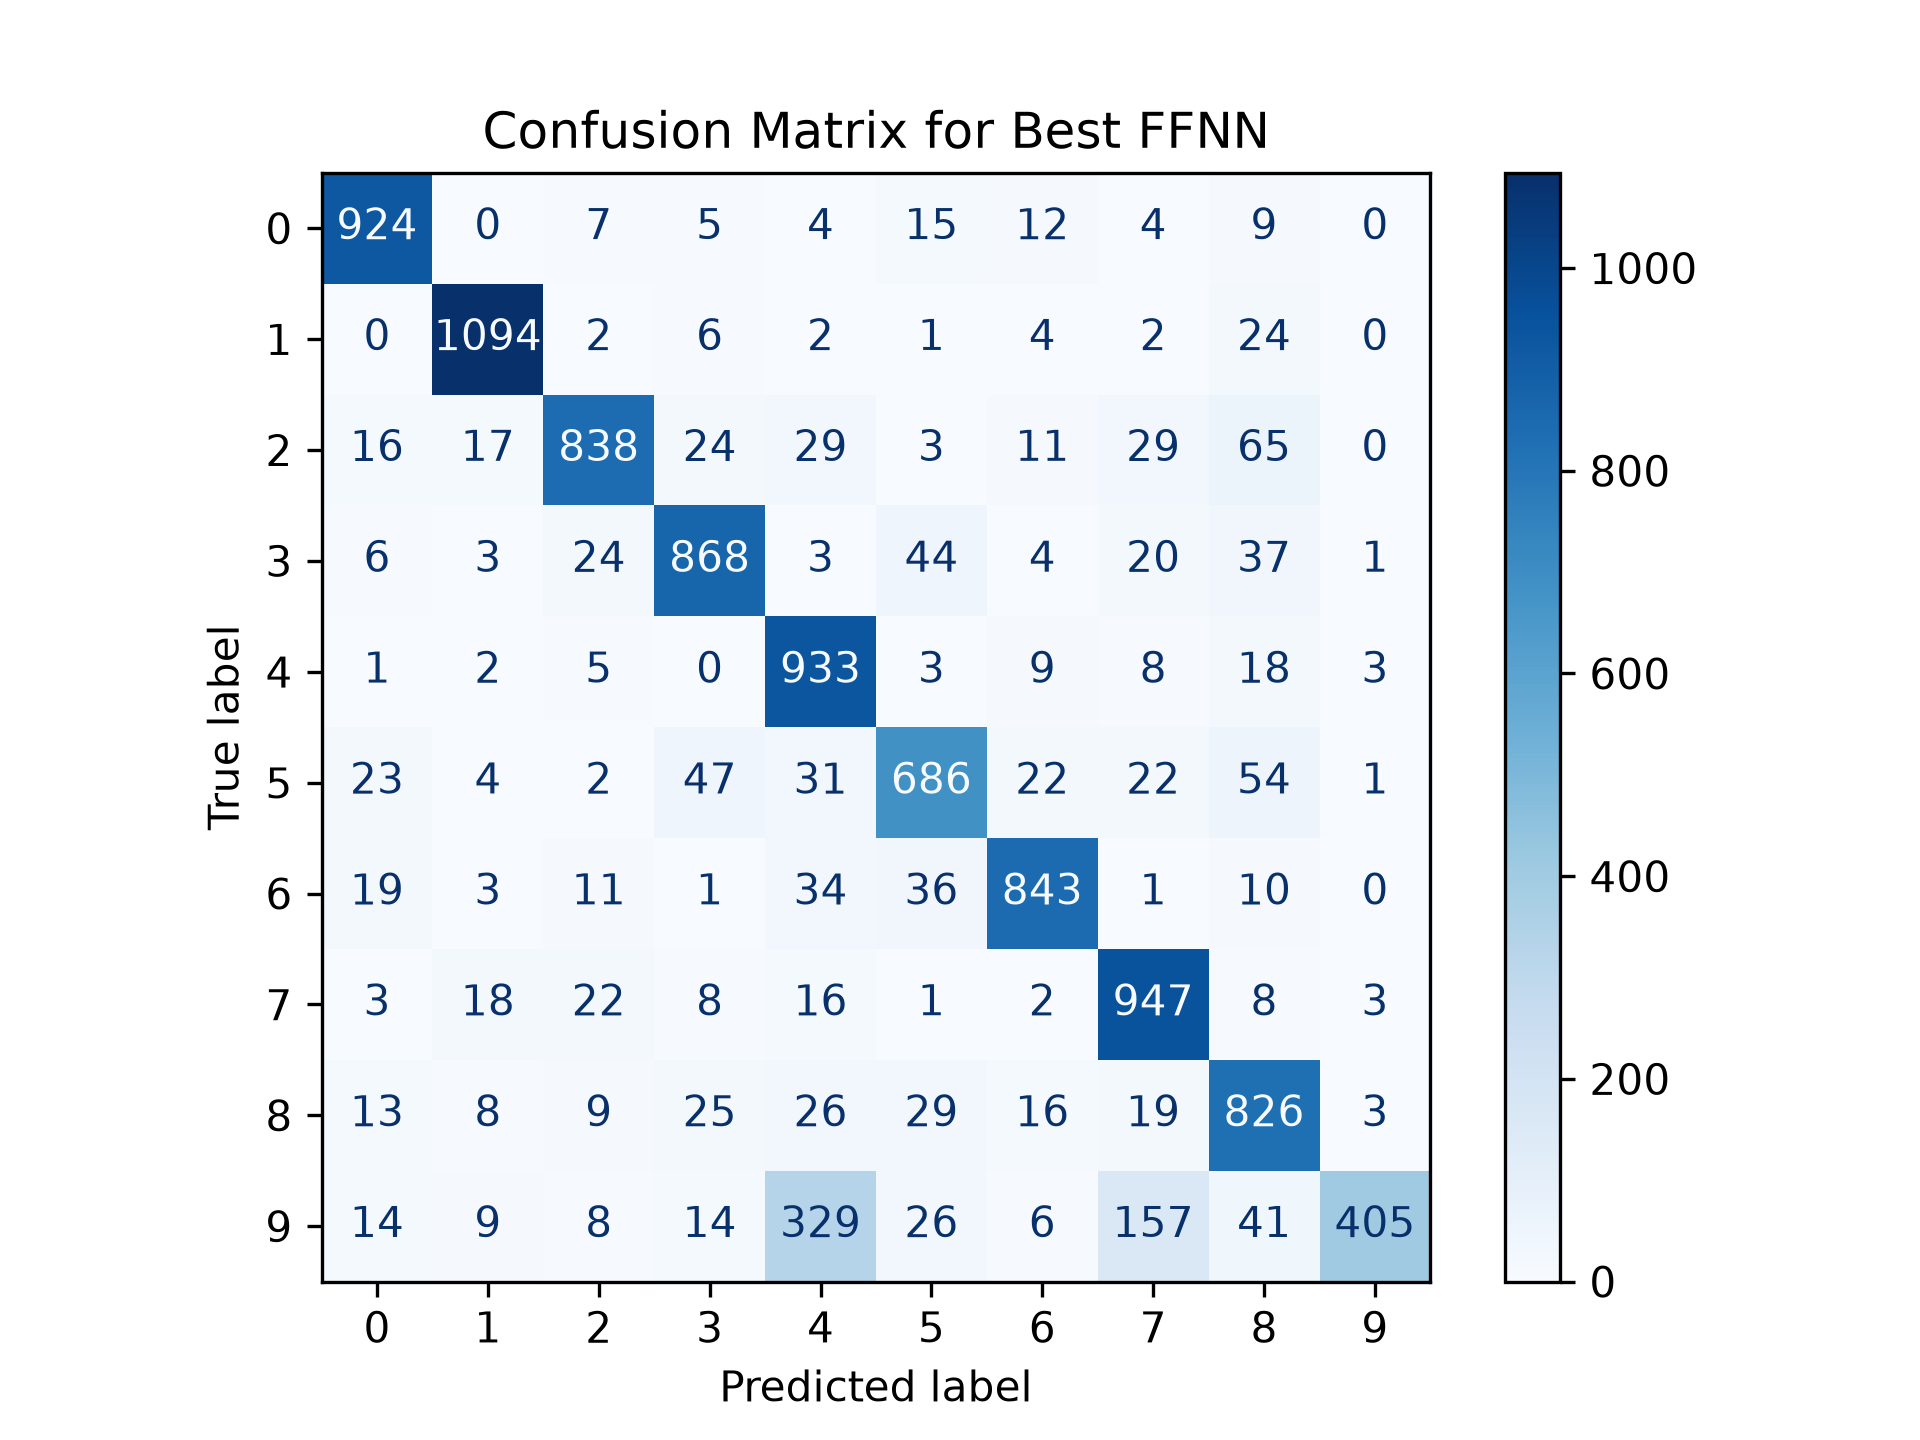
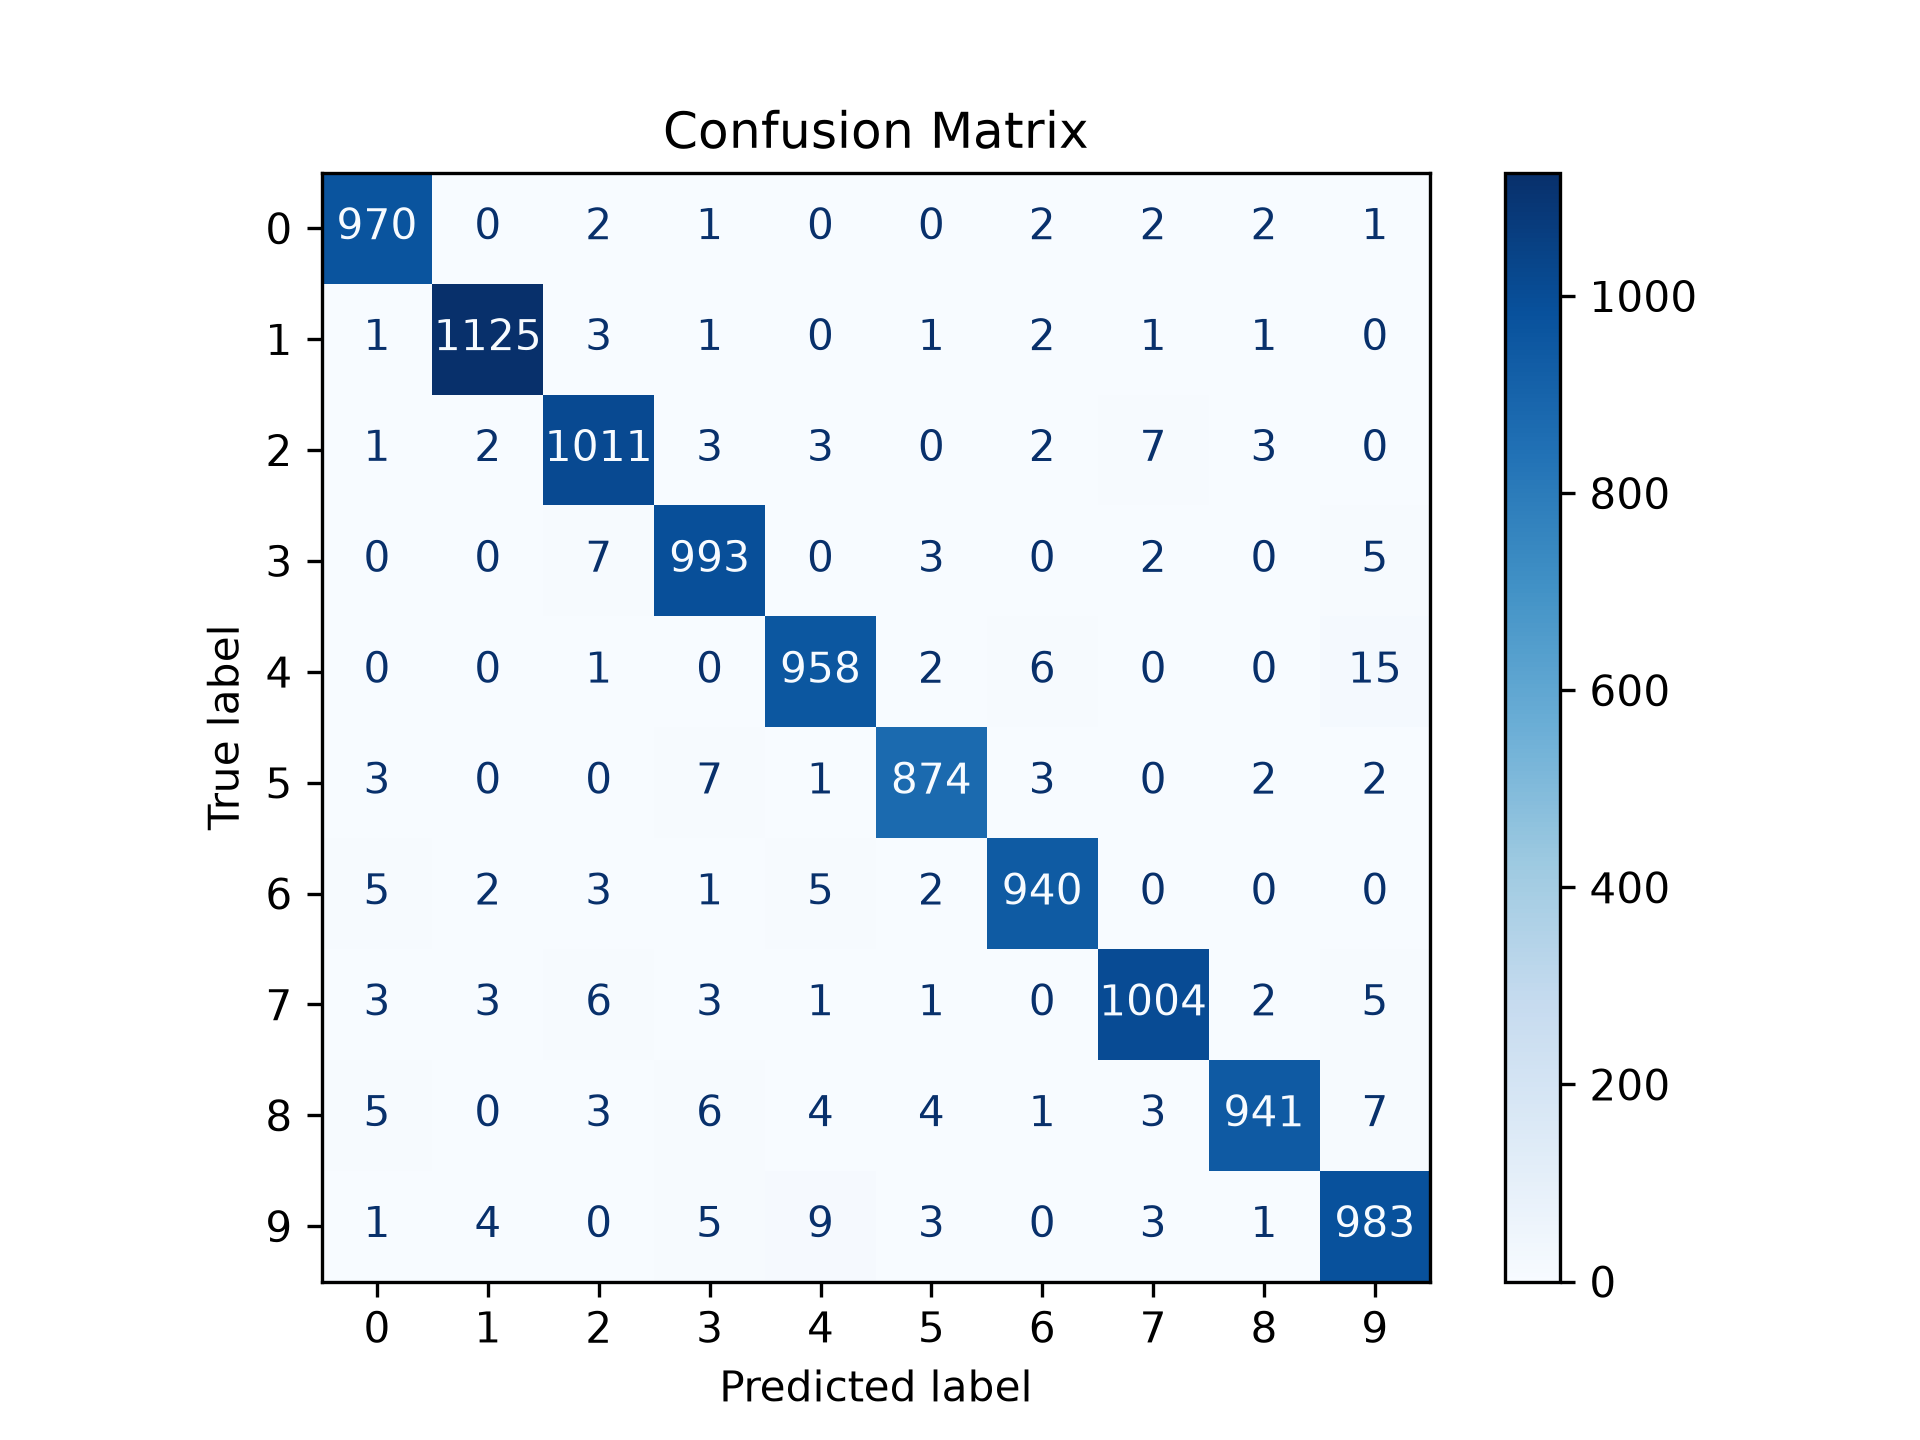
used nn class

diff --git a/part_e/mnist_training.py b/part_e/mnist_training.py
@@ -19,6 +19,7 @@ from sklearn.linear_model import LogisticRegression
 from functions.activation_functions import sigmoid, sigmoid_der, softmax
 from functions.cost_functions import cross_entropy, cross_entropy_Lp
 from models.neural_network import NeuralNetwork
+from models.neural_network_classifier import NeuralNetworkClassifier
 
 
 def load_mnist_rows():
@@ -83,42 +84,23 @@ print(x_train.shape, y_train.shape, x_test.shape, y_test.shape)
 # Neural network
 # --------------------------------------------------
 
-nn = NeuralNetwork(
+nn = NeuralNetworkClassifier(
     network_input_size=784,
     layer_output_sizes=[100, 10],
     activation_funcs=[sigmoid, softmax],
     activation_ders=[sigmoid_der, None],
     cost_fun=cross_entropy,
-    cost_der=cross_entropy_Lp
+    cost_der=cross_entropy_Lp,
+    classes=np.arange(10)
 )
 
-nn.initialize_layers()
+nn.fit(x_train, y_train)
 
-epochs = 100
-gamma = 0.01
+pred_labels = nn.classify(x_test)
 
-losses = []
+accuracy = np.mean(pred_labels == y_test)
 
-for epoch in range(epochs):
-
-    grads = nn.compute_gradient(
-        x_train,
-        y_train_onehot
-    )
-
-    nn.update_weights(
-        grads,
-        gamma
-    )
-
-    loss = nn.cost(
-        x_train,
-        y_train_onehot
-    )
-
-    losses.append(loss)
-
-    print(epoch, loss)
+print("Test Accuracy =", accuracy)
 
 # --------------------------------------------------
 # Evaluate NN
